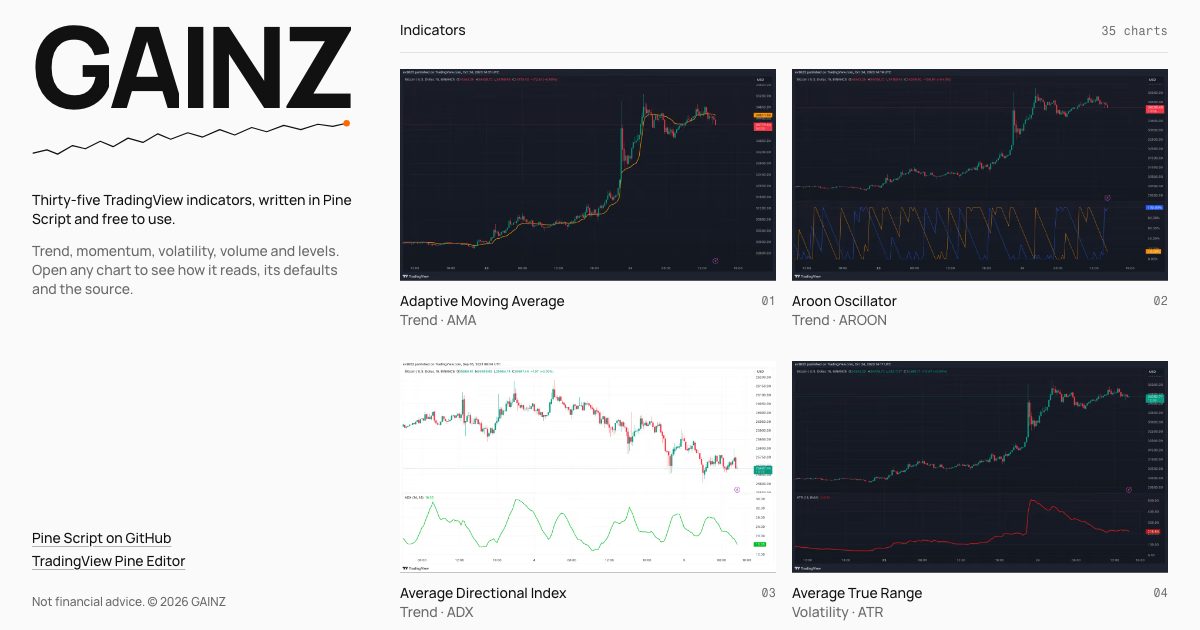
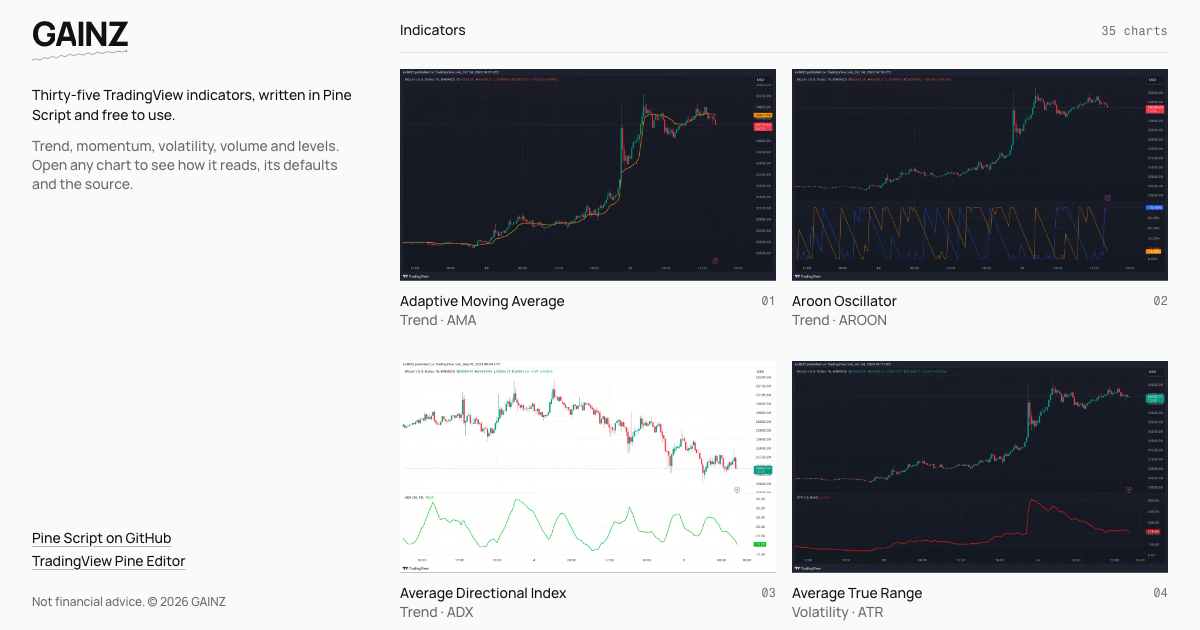
GAINZ: Shrink the wordmark and make the intro a centered loader

Changed region(s): [[0.0308, 0.0302, 0.3083, 0.3619], [0.0308, 0.3921, 0.2775, 0.4825]]

diff --git a/components/intro-screen.tsx b/components/intro-screen.tsx
@@ -14,9 +14,15 @@ import { INDICATORS } from "@/lib/indicators";
 
 const pad = (value: number) => String(Math.round(value)).padStart(2, "0");
 
+const STACK =
+  "fixed inset-0 flex flex-col items-center justify-center gap-6 px-gutter motion-reduce:hidden";
+
+const WIDTH = "w-48 sm:w-56";
+
 export function IntroScreen({ playing }: { playing: boolean }) {
   const count = useMotionValue(0);
   const shown = useTransform(count, pad);
+  const progress = useTransform(count, [0, INDICATORS.length], [0, 1]);
 
   useEffect(() => {
     const controls = animate(count, INDICATORS.length, {
@@ -34,30 +40,37 @@ export function IntroScreen({ playing }: { playing: boolean }) {
           <motion.div
             key="intro-backdrop"
             aria-hidden
-            className="fixed inset-0 z-40 flex items-end bg-background px-gutter pb-[max(1.25rem,env(safe-area-inset-bottom))] motion-reduce:hidden"
+            className={`${STACK} z-40 bg-background`}
             exit={{ opacity: 0, transition: { duration: INTRO.fade } }}
           >
+            <Wordmark className={`invisible ${WIDTH}`} />
             <motion.div
-              className="flex w-full justify-between font-mono text-xs text-muted-foreground"
+              className={`flex h-8 flex-col justify-between ${WIDTH}`}
               initial={{ opacity: 0 }}
               animate={{ opacity: 1 }}
               transition={{ duration: 0.6, delay: INTRO.count }}
             >
-              <span>Pine Script indicators</span>
-              <span>
-                <motion.span className="text-foreground">{shown}</motion.span> /{" "}
-                {pad(INDICATORS.length)}
-              </span>
+              <div className="h-px w-full bg-border">
+                <motion.div
+                  className="h-px origin-left bg-foreground"
+                  style={{ scaleX: progress }}
+                />
+              </div>
+              <div className="flex justify-between font-mono text-xs text-muted-foreground">
+                <span>Indicators</span>
+                <span>
+                  <motion.span className="text-foreground">{shown}</motion.span>{" "}
+                  / {pad(INDICATORS.length)}
+                </span>
+              </div>
             </motion.div>
           </motion.div>
         )}
       </AnimatePresence>
       {playing && (
-        <div
-          aria-hidden
-          className="pointer-events-none fixed inset-0 z-50 flex items-center px-gutter motion-reduce:hidden"
-        >
-          <Wordmark play shared className="w-full max-w-[150dvh]" />
+        <div aria-hidden className={`${STACK} pointer-events-none z-50`}>
+          <Wordmark play shared className={WIDTH} />
+          <div className={`h-8 ${WIDTH}`} />
         </div>
       )}
     </>

diff --git a/components/site-panel.tsx b/components/site-panel.tsx
@@ -29,12 +29,12 @@ export function SitePanel({ settled }: { settled: boolean }) {
 
   return (
     <aside className="flex flex-col justify-between gap-12 text-sm leading-snug font-medium max-lg:contents lg:sticky lg:top-0 lg:z-[45] lg:h-dvh lg:pt-[max(1.25rem,env(safe-area-inset-top))] lg:pb-[max(1.25rem,env(safe-area-inset-bottom))]">
-      <div className="relative z-[45] flex flex-col gap-8 max-lg:order-1 max-lg:pt-[max(1.25rem,env(safe-area-inset-top))] max-lg:pb-10">
+      <div className="relative z-[45] flex flex-col gap-6 max-lg:order-1 max-lg:pt-[max(1.25rem,env(safe-area-inset-top))] max-lg:pb-10">
         <h1 className="sr-only">GAINZ, open-source TradingView indicators</h1>
         {settled ? (
-          <Wordmark key="shared" shared />
+          <Wordmark key="shared" shared className="w-24" />
         ) : (
-          <Wordmark key="placeholder" className="invisible" />
+          <Wordmark key="placeholder" className="invisible w-24" />
         )}
 
         <motion.div {...appear(0)} className="flex flex-col gap-3">
